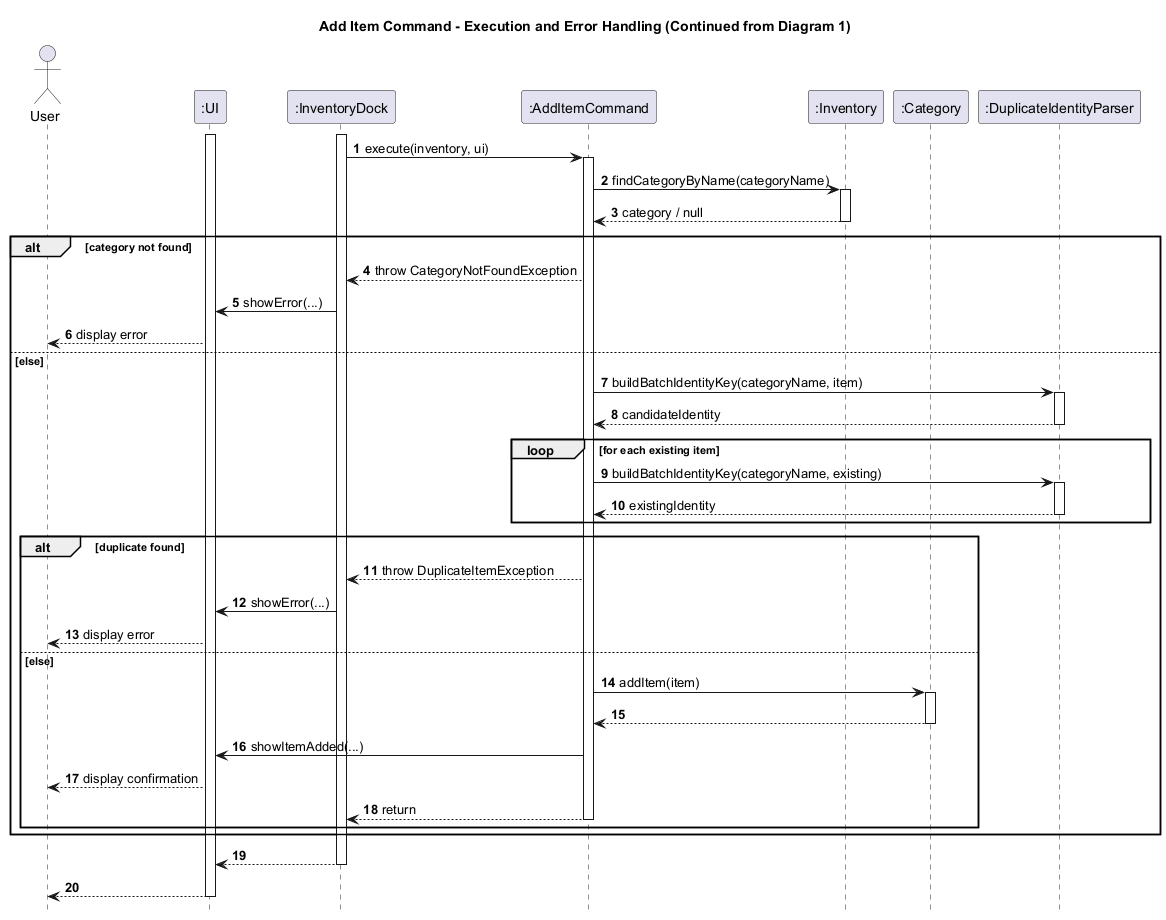
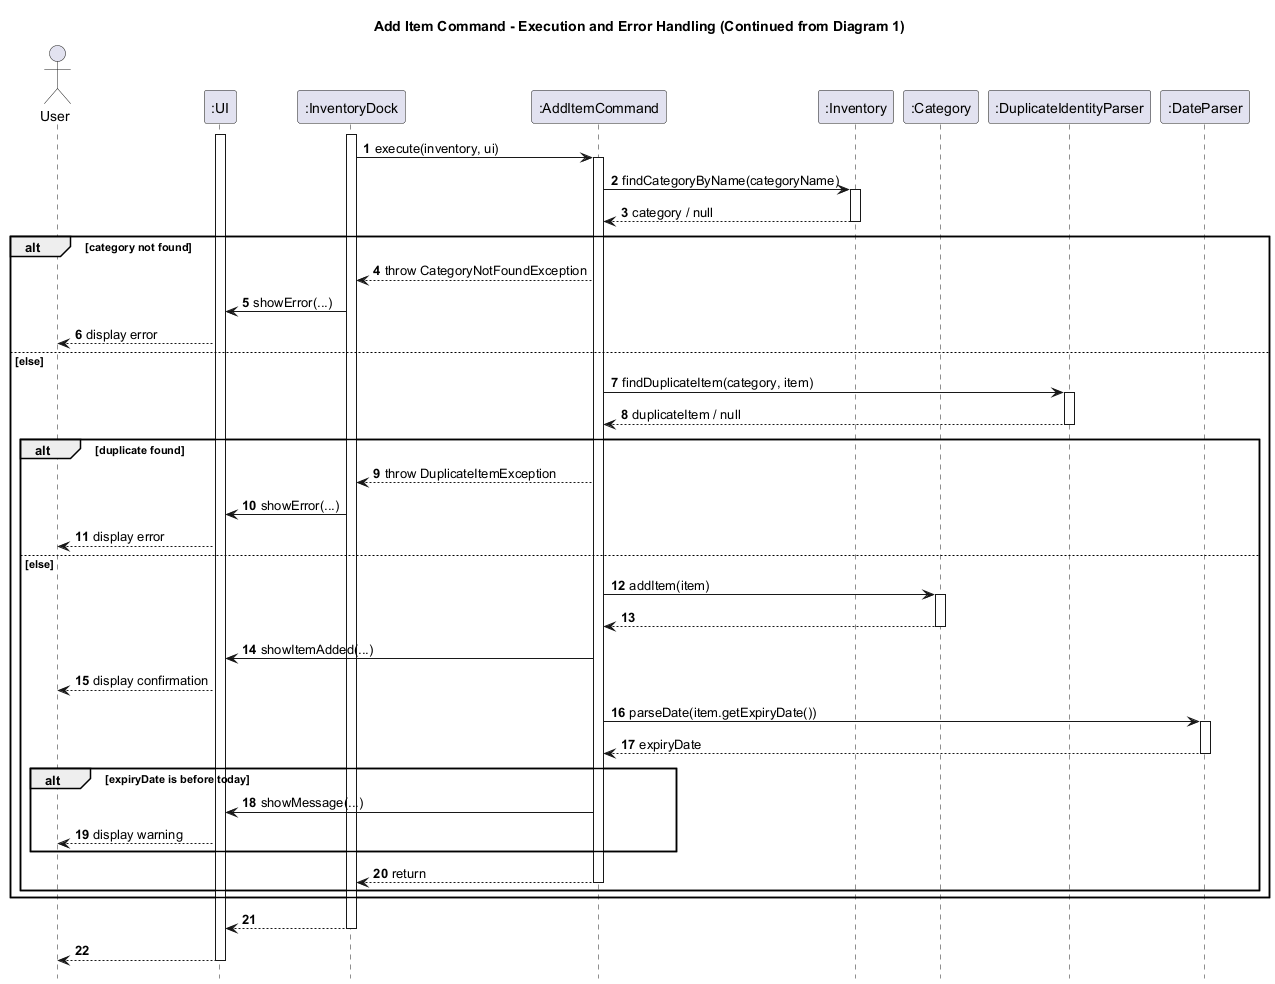
Fix diagrams for the refactor

diff --git a/docs/DeveloperGuide.md b/docs/DeveloperGuide.md
@@ -218,19 +218,18 @@ When the user enters an add command, the implementation performs the following s
 6. `AddItemCommandParser` creates an `Item` subtype and wraps it in an `AddItemCommand`.
 7. `InventoryDock` executes `AddItemCommand.execute(inventory, ui)`.
 8. `AddItemCommand` calls `inventory.findCategoryByName(categoryName)`.
-9. If the category exists, `AddItemCommand` computes a normalized batch-identity key for the new item.
-10. `AddItemCommand` scans existing items in the same category and compares normalized keys.
-11. The normalized key ignores `qty/` and `bin/`, and compares the remaining stored fields.
-12. If a duplicate batch is found, `AddItemCommand` throws `DuplicateItemException` with
+9. If the category exists, `AddItemCommand` calls `DuplicateIdentityParser.findDuplicateItem(category, item)`.
+10. The duplicate-batch check ignores `qty/` and `bin/`, and compares the remaining stored fields.
+11. If a duplicate batch is found, `AddItemCommand` throws `DuplicateItemException` with
     `Duplicate item found for category/<category> item/<item>.`.
-13. If no duplicate is found, `AddItemCommand` calls `category.addItem(item)`.
-14. `UI.showItemAdded(...)` displays the confirmation to the user.
+12. If no duplicate is found, `AddItemCommand` calls `category.addItem(item)`.
+13. `UI.showItemAdded(...)` displays the confirmation to the user.
 
 The execution logic in `AddItemCommand` keeps validation and mutation together:
 
 ```java
 Category category = inventory.findCategoryByName(categoryName);
-Item duplicateItem = findDuplicateItem(category, item);
+Item duplicateItem = DuplicateIdentityParser.findDuplicateItem(category, item);
 if (duplicateItem != null) {
     throw new DuplicateItemException("Duplicate item found for category/"
             + category.getName() + " item/" + item.getName() + ".");
@@ -570,7 +569,7 @@ Item item = category.getItem(itemIndex - 1);
 String originalName = item.getName();
 ItemSnapshot snapshot = ItemSnapshot.from(item);
 applyUpdates(item);
-Item duplicate = findDuplicateItem(category, item);
+Item duplicate = DuplicateIdentityParser.findDuplicateItem(category, item);
 if (duplicate != null && duplicate != item) {
    restoreFromSnapshot(item, snapshot);
    throw new DuplicateItemException("Duplicate item found for category/"
@@ -1385,11 +1384,3 @@ This section provides instructions for manually testing the application.
 10. Verify that the application shows `N/A` for the corresponding summary fields.
 11. Run `summary invalidType`. 
 12. Verify that the application shows the appropriate invalid summary type error message.
-
-
-
-
-
-
-
-
